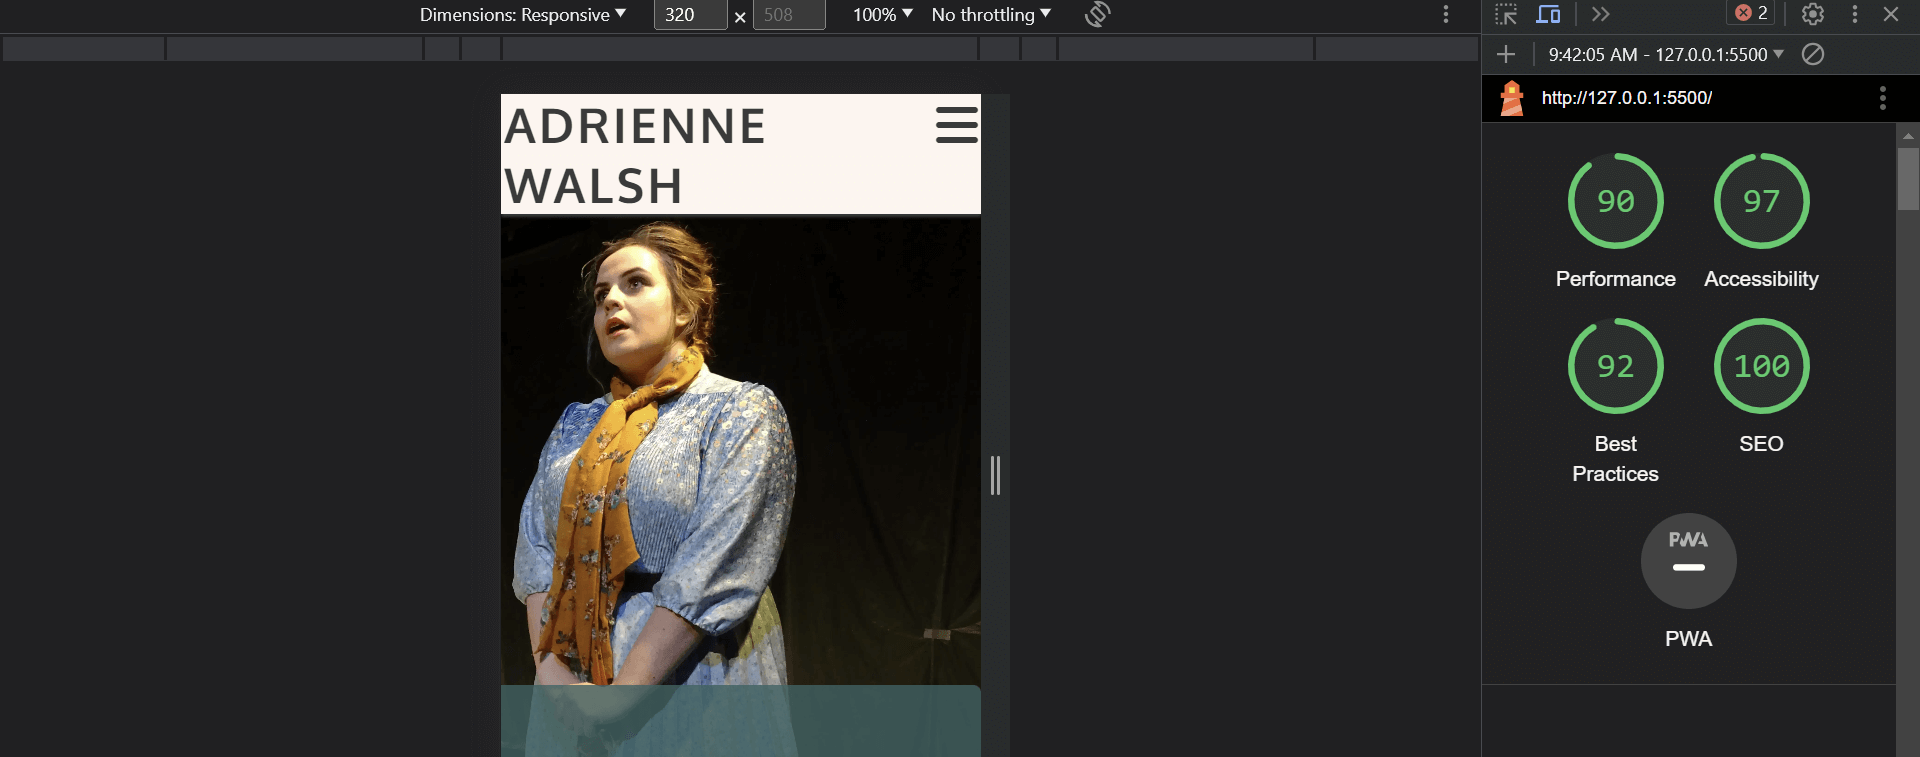
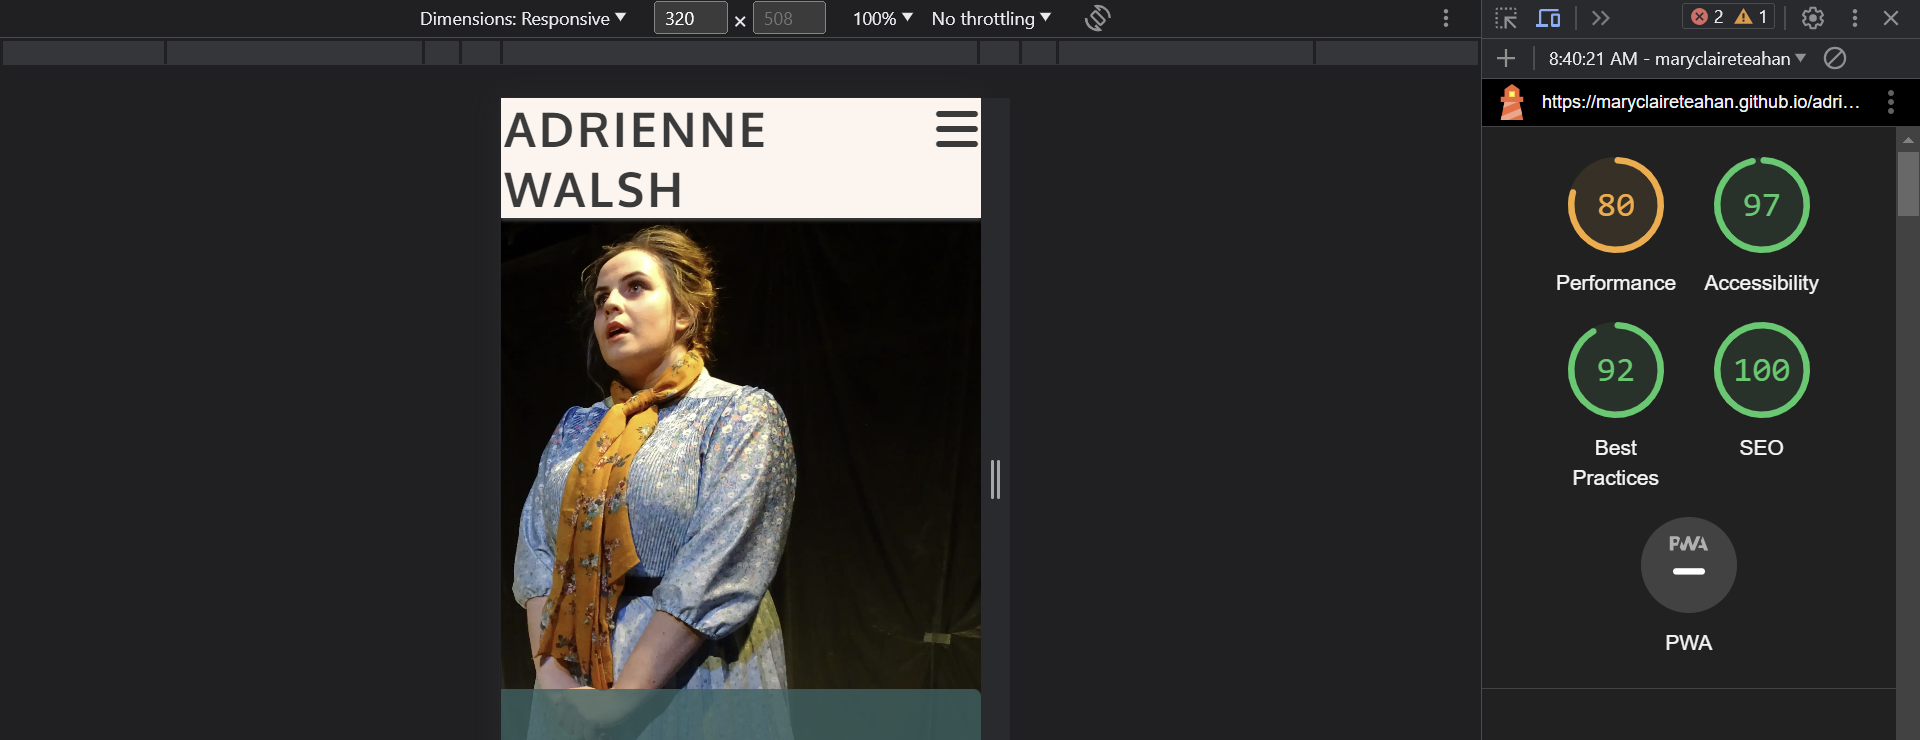
style: add height to galler images

diff --git a/assets/css/style.css b/assets/css/style.css
@@ -292,8 +292,8 @@
 
  #photos img {
      width: 240px;
-     min-height: 155px;
-     max-height: 180px;
+     height: 155px;
+     
      line-height: 1em;
      padding: 1% 0;
      box-shadow: 0 2px 2px #3a3a3a;

diff --git a/README.md b/README.md
@@ -192,6 +192,8 @@ Scores for mobile devices:
 Home Page
 ![Home mob](/readme/documentation/supp-images/performance/home-performance-mob.png)
 
+
+
 Actor Page
 ![Actor mob](/readme/documentation/supp-images/performance/actor-performance-mob.png)
 
